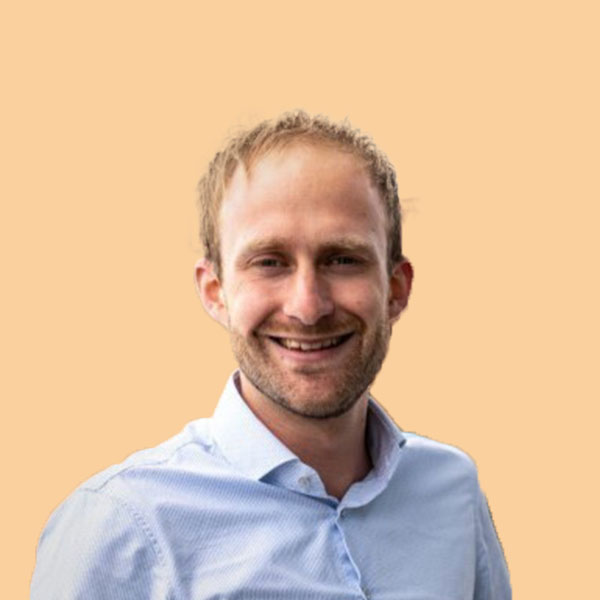
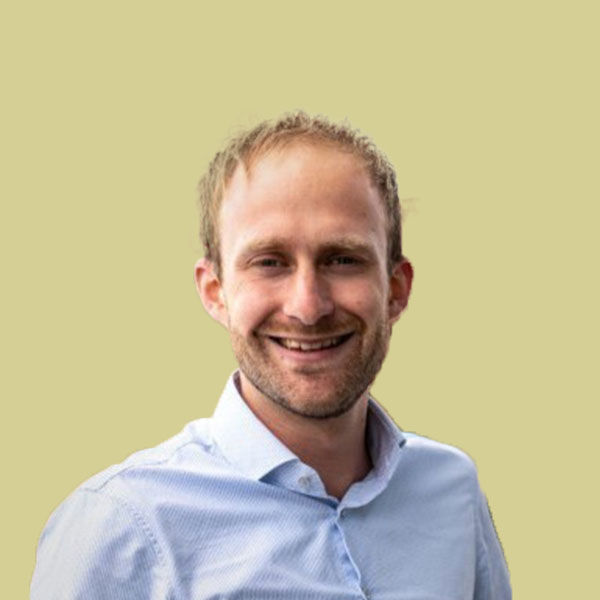
update coaches

diff --git a/index.html b/index.html
@@ -108,25 +108,15 @@
         <!-- /.row -->
 
         <div class="row text-center">
+
+          <div class="space30 d-none d-md-block d-lg-none"></div>
           <div class="col-md-6 col-lg-3">
             <div class="box bg-white shadow">
-              <div class="icon icon-svg mb-20"><img src="style/images/icons/st-startup.png" alt=""></div>
-              <h5>Next Mobility</h5>
+              <div class="icon icon-svg mb-20"><img src="style/images/icons/ui-house.png" alt=""></div>
+              <h5>Next Living</h5>
               <p>Nulla vitae elit libero, a pharetra augue. Donec id elit non mi porta gravida at eget metus. Cras justo
                 odio. Cum sociis natoque penatibus magnis dis.</p>
-              <a href="impact-areas.html#next-mobility" class="btn btn-s btn-blue">Read More</a>
-            </div>
-            <!--/.box -->
-          </div>
-          <!--/column -->
-          <div class="col-md-6 col-lg-3">
-            <div class="box bg-white shadow">
-              <div class="icon icon-svg mb-20"><img src="style/images/icons/de-invention.png" alt=""></div>
-              <h5>Next Energy
-              </h5>
-              <p>Nulla vitae elit libero, a pharetra augue. Donec id elit non mi porta gravida at eget metus. Cras justo
-                odio. Cum sociis natoque penatibus magnis dis.</p>
-              <a href="impact-areas.html#next-energy" class="btn btn-s btn-orange">Read More</a>
+              <a href="impact-areas.html#next-living" class="btn btn-s btn-blue">Read More</a>
             </div>
             <!--/.box -->
           </div>
@@ -139,23 +129,40 @@
               <h5>Next Retail</h5>
               <p>Nulla vitae elit libero, a pharetra augue. Donec id elit non mi porta gravida at eget metus. Cras justo
                 odio. Cum sociis natoque penatibus magnis dis.</p>
-              <a href="impact-areas.html#next-food" class="btn btn-s btn-rose">Read More</a>
+              <a href="impact-areas.html#next-retail" class="btn btn-s btn-blue">Read More</a>
             </div>
             <!--/.box -->
           </div>
           <!--/column -->
-          <div class="space30 d-none d-md-block d-lg-none"></div>
+
           <div class="col-md-6 col-lg-3">
             <div class="box bg-white shadow">
-              <div class="icon icon-svg mb-20"><img src="style/images/icons/ui-house.png" alt=""></div>
-              <h5>Next Living</h5>
+              <div class="icon icon-svg mb-20"><img src="style/images/icons/st-startup.png" alt=""></div>
+              <h5>Next Technology</h5>
               <p>Nulla vitae elit libero, a pharetra augue. Donec id elit non mi porta gravida at eget metus. Cras justo
                 odio. Cum sociis natoque penatibus magnis dis.</p>
-              <a href="impact-areas.html#next-living" class="btn btn-s btn-green">Read More</a>
+              <a href="impact-areas.html#next-technology" class="btn btn-s btn-blue">Read More</a>
             </div>
             <!--/.box -->
           </div>
           <!--/column -->
+
+          <div class="col-md-6 col-lg-3">
+            <div class="box bg-white shadow">
+              <div class="icon icon-svg mb-20"><img src="style/images/icons/de-invention.png" alt=""></div>
+              <h5>Next ?
+              </h5>
+              <p>Nulla vitae elit libero, a pharetra augue. Donec id elit non mi porta gravida at eget metus. Cras justo
+                odio. Cum sociis natoque penatibus magnis dis.</p>
+              <a href="impact-areas.html#next-energy" class="btn btn-s btn-blue">Read More</a>
+            </div>
+            <!--/.box -->
+          </div>
+          <!--/column -->
+
+
+
+
 
         </div>
         <!--/.row -->
@@ -522,21 +529,17 @@
         <div class="row">
           <div class="col-md-8 offset-md-2">
             <div class="row counter">
-              <div class="col-md-4 color-default">
-                <h3 class="color-default"><span class="value">110</span>K</h3>
-                <p>Minutes of coaching sessions</p>
+              <div class="col-md-6 color-default">
+                <h3 class="color-default"><span class="value">12</span></h3>
+                <p>Startup Coaches</p>
               </div>
               <!--/column -->
-              <div class="col-md-4 color-default">
-                <h3 class="color-default">€<span class="value">150</span>K</h3>
+              <div class="col-md-6 color-default">
+                <h3 class="color-default">€<span class="value">405</span>K</h3>
                 <p>Invested in startups</p>
               </div>
               <!--/column -->
-              <div class="col-md-4 color-default">
-                <h3 class="color-default"><span class="value">100</span>K</h3>
-                <p>Nog iets</p>
-              </div>
-              <!--/column -->
+
             </div>
             <!--/.row -->
           </div>

diff --git a/about.html b/about.html
@@ -277,7 +277,7 @@
             <figure class="img-blob blob8 mb-25"><img src="style/images/nextcycle/coaches/laurens-van-roomen.jpg"
                 style="width: 10rem" alt="" /></figure>
             <h4 class="mb-15">Laurens van Roomen</h4>
-            <div class="meta mb-5">CEO & Entrepreneur</div>
+            <div class="meta mb-5">CEO & Freelancer, Promising 15 of DUB, Sprout 25 below 25</div>
             <p>xx</p>
             <ul class="social social-s ml-auto">
               <li><a href="https://www.linkedin.com/in/laurens-van-roomen-43564656" target="_blank"><i
